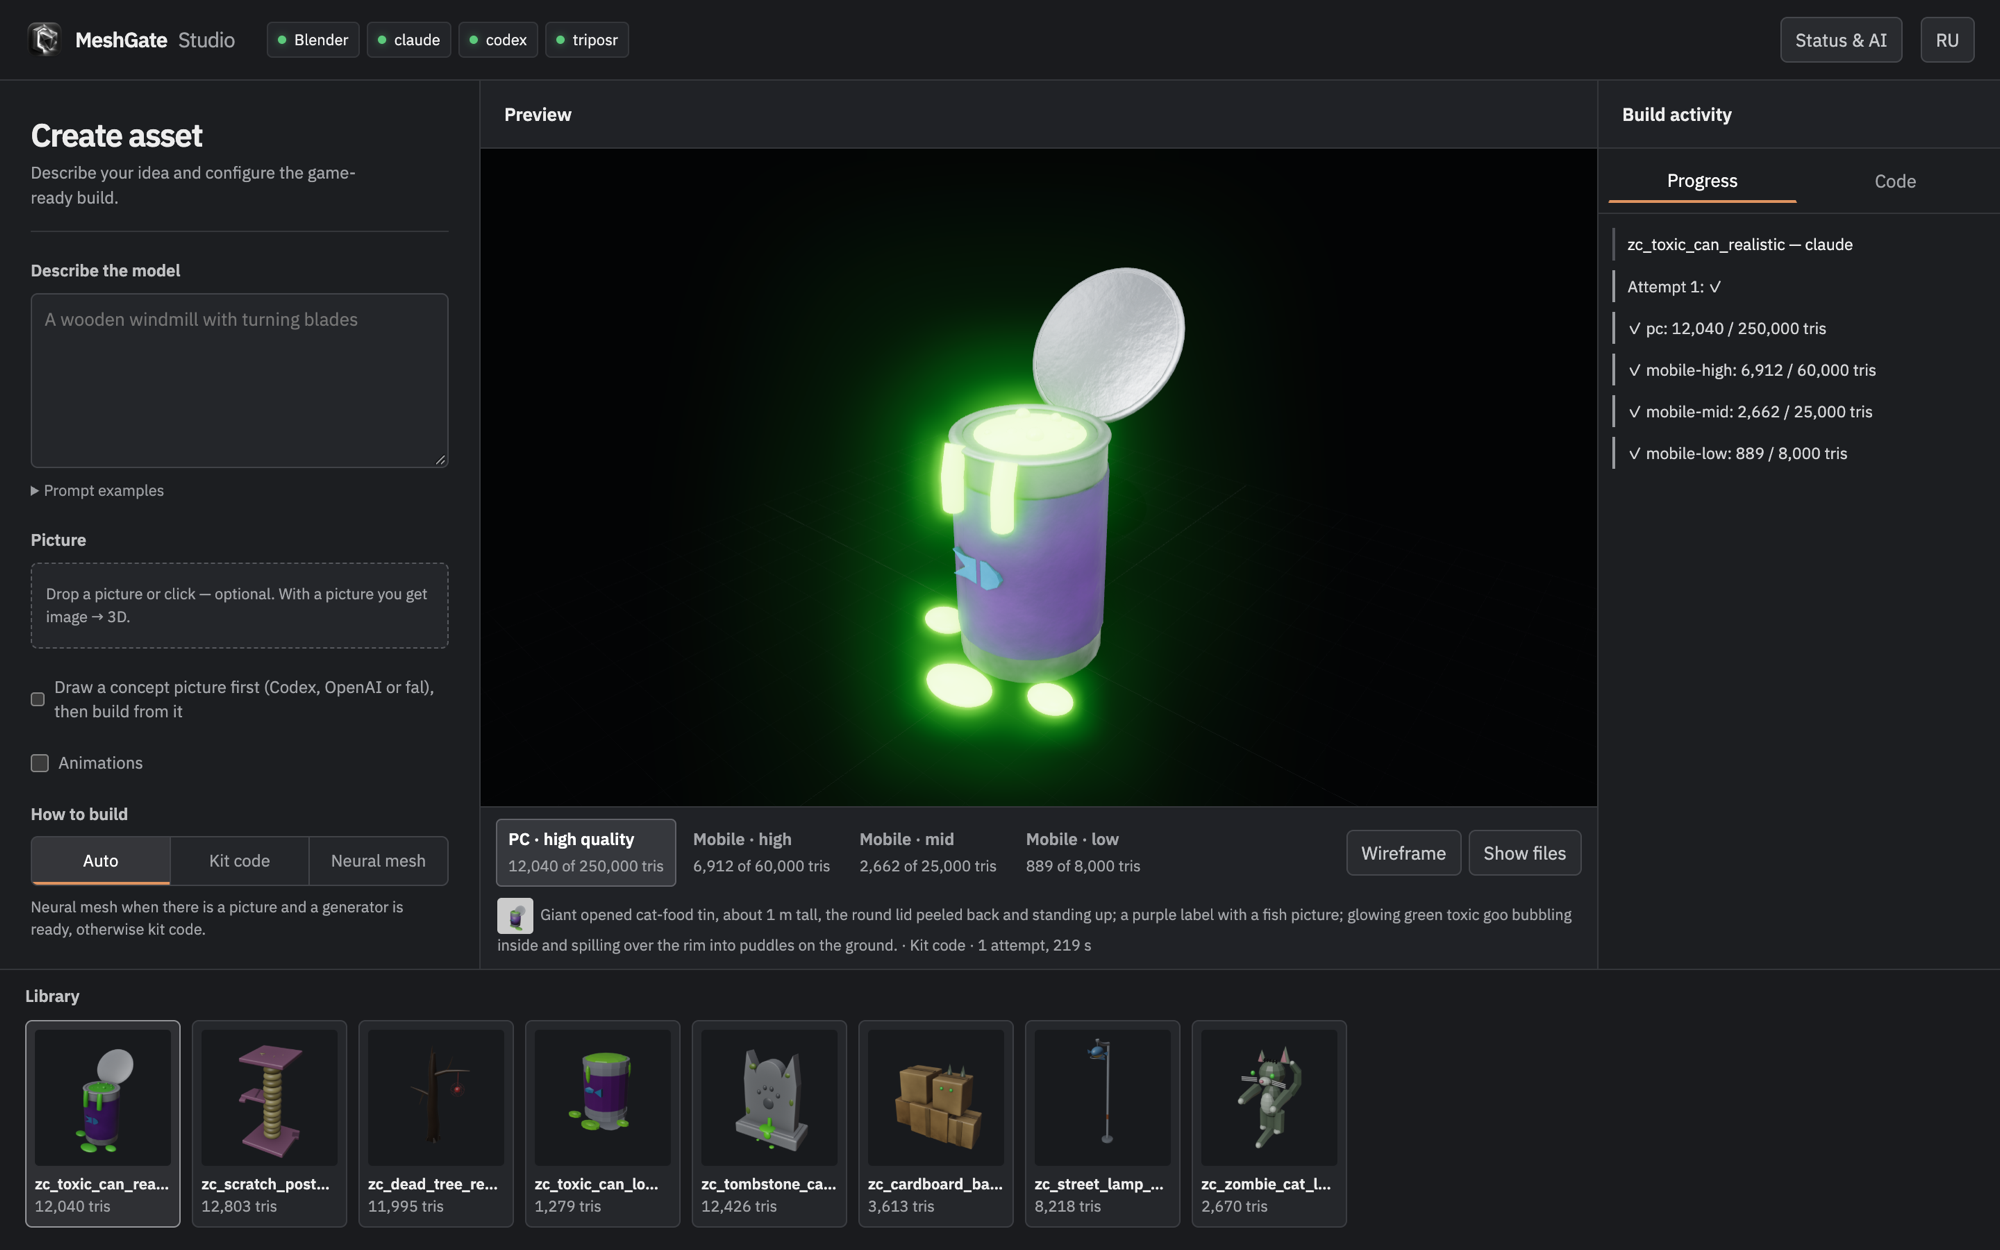
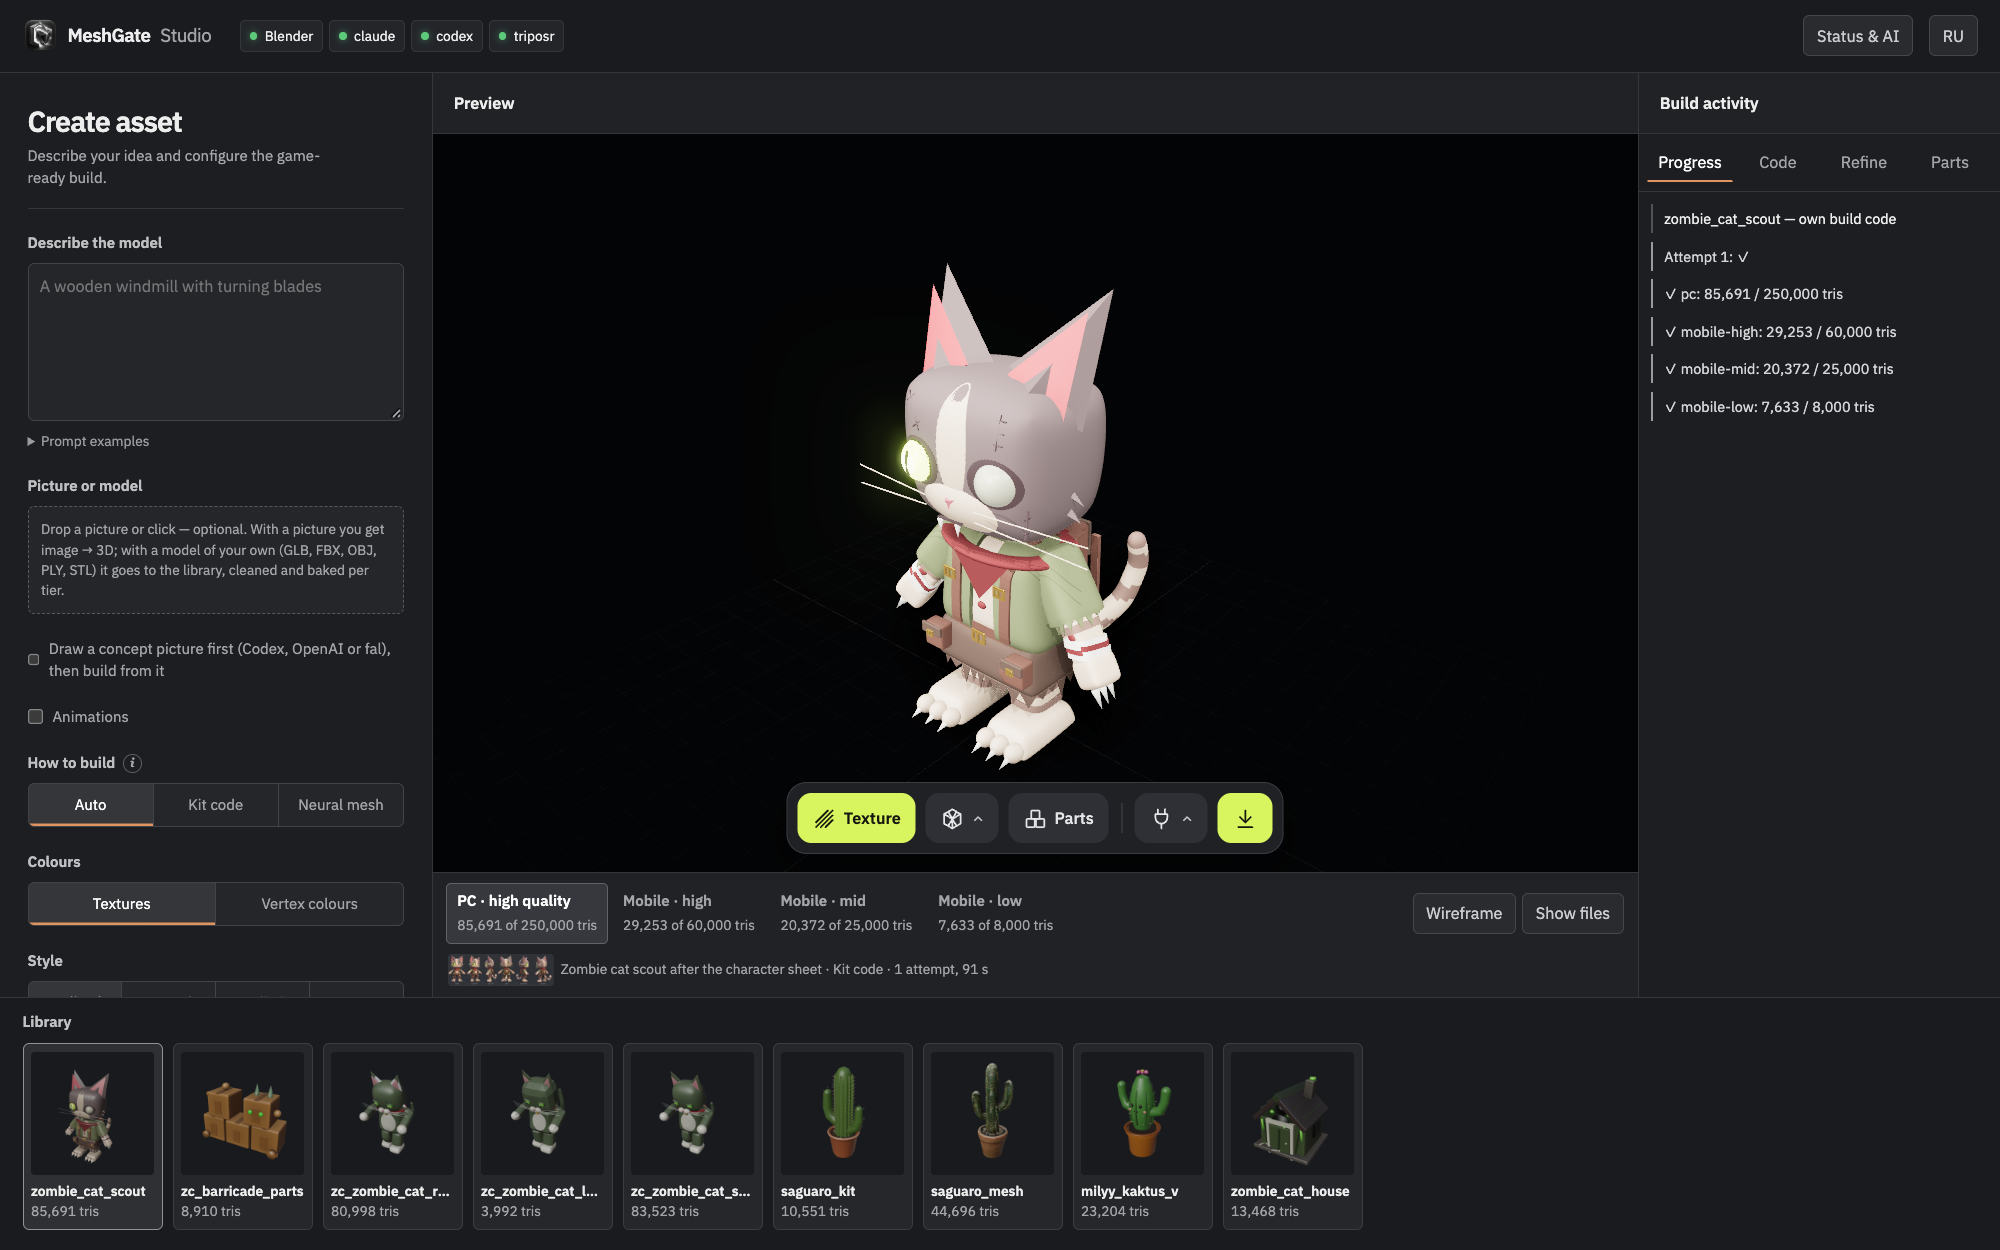
v0.6.8: parts you can move, your own models, a bridge into the engines, dressed characters
- --split and a part editor in Studio (move, turn, scale, repaint, remove; edits.json reapplied on rebuilds)
- your own GLB / FBX / OBJ / PLY / STL into the Studio library; Send to Unity, Godot, Unreal or Blender
  (Studio and `meshgate.py send`)
- a dock under the model: texture, remesh to a target polycount in quads or triangles, the UV grid, parts,
  send, download; the notes on the settings in an ⓘ
- kit: mg.garment, mg.strap, mg.buckle, mg.pouch, mg.fringe, mg.wrap, mg.stitch, mg.bounds; colours fitted to
  the reference; comparison with every view of a character sheet
- README (both languages), roadmap and the Studio screenshot; version 0.6.8

diff --git a/apps/studio/server.py b/apps/studio/server.py
@@ -42,7 +42,7 @@ import keys  # noqa: E402
 import mesh  # noqa: E402
 import components  # noqa: E402  optional local models (TripoSR, Hunyuan3D, Kimodo)
 
-VERSION = "0.6.7"
+VERSION = "0.6.8"
 THREE_VERSION = "0.169.0"   # same as targets/web/index.html
 NAME_RE = re.compile(r"^[a-z0-9_\-.]{1,80}$")
 UPLOAD_RE = re.compile(r"^[0-9a-f]{16}\.(png|jpg|jpeg|webp)$")

diff --git a/README.md b/README.md
@@ -13,7 +13,14 @@
   program that builds it from simple parts, and Blender builds it.
 - **Picture → 3D.** Drop a picture. TripoSR on your computer, or a cloud generator, turns it into a mesh; MeshGate
   stands it upright, simplifies it and bakes its colours.
-- **Your own models.** The Blender add-on checks a model, fixes what engines trip over and exports it.
+- **Your own models.** Drop a GLB, FBX, OBJ, PLY or STL into Studio and it goes into the library, cleaned, remeshed
+  and baked for every tier. In Blender, the add-on checks a model, fixes what engines trip over and exports it.
+- **Parts you can move.** **Split into parts** makes every separate thing its own object — a pile of crates becomes one
+  object per crate, named by its colour, its origin at its base — so it can be moved and reworked on its own in the
+  engine. In Studio you drag, turn, scale, repaint or remove the parts and every tier is rebuilt with the changes.
+- **Edit under the model, send to the engine.** A bar under the model changes the texture, remeshes to a target
+  polycount in quads or triangles and shows the UV layout; **Send to** puts the files straight into your Unity, Godot
+  or Unreal project (and replaces them there next time), or opens the model in Blender.
 - **Ready for every device.** Each model is built for four quality tiers — PC, mobile high, mobile mid, mobile low —
   within each tier's triangle and texture budget, as `.glb` plus `.fbx` and engine variants with collision and LODs.
   Every file is checked against the engines' rules before you see it.
@@ -54,7 +61,8 @@ plugins: **[Installation](docs/install.md)**.
 3. Optional: **Output settings** for the size, the tiers, your own triangle limits and textures or vertex colours;
    **Animations** to describe clips such as "open: the lid opens".
 4. Press **Generate**. In one to three minutes every tier appears in 3D with its triangle count.
-5. **Show files** opens the folder with the `.glb`, `.fbx` and engine files.
+5. Under the model: **Texture**, **Remesh / UV**, **Parts**, the plug to send it into your engine project, and
+   **Download**. **Show files** opens the folder with the `.glb`, `.fbx` and engine files.
 
 ![MeshGate Studio](docs/img/studio.png)
 
@@ -124,6 +132,8 @@ The same without a window, and in CI:
 python3 meshgate.py doctor                                    # what is installed and what is missing
 python3 meshgate.py gen "a wooden treasure chest" --size 0.8  # text → model for every tier
 python3 meshgate.py gen --image photo.jpg --size 0.8          # picture → model
+python3 meshgate.py gen --mesh crates.fbx --split             # your own model → every tier, one object per crate
+python3 meshgate.py send out/gen/crates --to unity --project ~/Games/MyGame   # into a Unity / Godot / Unreal project
 python3 meshgate.py studio                                    # MeshGate Studio in your browser
 python3 meshgate.py mcp                                       # MCP server: an AI client builds in live Blender
 python3 meshgate.py export scene.blend --out build/asset.glb --fbx   # Blender file → checked GLB (+ FBX)
@@ -156,7 +166,7 @@ For AI coding agents, [`SKILL.md`](SKILL.md) turns the pipeline into a repeatabl
 <summary>Repository layout</summary>
 
 ```
-meshgate.py      the command line: doctor, gen, studio, export, validate, serve, check, install-blender, …
+meshgate.py      the command line: doctor, gen, studio, send, export, validate, serve, check, install-blender, …
 core/            asset contract, quality tiers, GLB and FBX validators (standard library only)
 sources/blender  the Blender add-on, the modeling kit, headless export, demo generators
 sources/generate text and picture → model: prompts, AI tool adapters, guard rails, generators, refine, examples
@@ -172,8 +182,9 @@ tests/           automated checks; .github/ runs them on Linux and Windows and b
 
 ## Status
 
-**v0.6.7.** Generation from text and pictures, three styles, four quality tiers, MeshGate Studio for macOS, Windows
-and Linux (portable). Checked on Blender 3.5, 4.2 LTS and 5.2 LTS, Unity 6, Godot 4.7 and in the web viewer; for every change
+**v0.6.8.** Generation from text and pictures, three styles, four quality tiers, MeshGate Studio for macOS, Windows
+and Linux (portable), your own models in the library, models split into parts you can edit, and sending to Unity,
+Godot, Unreal and Blender. Checked on Blender 3.5, 4.2 LTS and 5.2 LTS, Unity 6, Godot 4.7 and in the web viewer; for every change
 GitHub runs the web, Blender, Godot and Unreal API checks on Linux, and the web and Blender checks on Windows. Characters with a skeleton, A/T-pose and clips come out of the kit. Next: a live Unreal run, animation from text
 (Kimodo), Maya, signed installers — see the [roadmap](docs/roadmap.md).
 

diff --git a/docs/roadmap.ru.md b/docs/roadmap.ru.md
@@ -112,6 +112,12 @@
 - [x] Риги, которые держатся: детали на движущемся теле берут веса поверхности под собой, веса сглажены по коже, грани под движущейся рукой не удаляются, петли по позвоночнику у low-poly тел; поза покоя A-Pose / T-Pose (`--pose`, студия).
 - [x] Тун-обводка (вывернутая оболочка, `--outline`), мягче ореол свечения во вьюере.
 
+## v0.6.8 — Части, свои модели, мост в движки, одетые персонажи (сделано)
+- [x] `--split`: каждая отдельная вещь — свой объект под общим корнем, с именем по цвету и точкой опоры внизу (kit и свои сетки); редактор частей в Studio (двигать, поворачивать, масштабировать, перекрашивать, удалять), правки хранятся в `edits.json` и повторяются при каждой пересборке.
+- [x] Свои GLB, FBX, OBJ, PLY и STL в библиотеку Studio; «Отправить в» Unity, Godot, Unreal или Blender (`meshgate.py send`).
+- [x] Панель под моделью в Studio: текстура, ремеш под целевой полигонаж в квадах или треугольниках, UV-сетка, части, отправка, скачивание; пояснения к настройкам в ⓘ.
+- [x] Инструменты одежды и деталей для kit: mg.garment, mg.strap, mg.buckle, mg.pouch, mg.fringe, mg.wrap, mg.stitch, mg.bounds; цвета подгоняются под референс; сравнение со всеми видами листа персонажа и подгонка глубины по видам сбоку.
+
 ## Позже — персонажи и PBR
 - [ ] Коты-зомби, realistic: кот-зомби и рыбьи кости через генератор картинка → 3D (с облачным ключом или Hunyuan3D-2).
 - [ ] Анимации персонажей по тексту через Kimodo (уже ставится): SOMA BVH → ретаргет на Humanoid MeshGate в Blender → клипы в GLB/FBX; нужна видеокарта NVIDIA.

diff --git a/docs/roadmap.md b/docs/roadmap.md
@@ -112,6 +112,12 @@
 - [x] Rigs that hold together: pieces on a moving body take the weights of the surface under them, weights are smoothed across the skin, faces under a moving arm are kept, spine rings on low-poly bodies; A-Pose / T-Pose rest pose (`--pose`, Studio).
 - [x] Toon ink line (inverted hull, `--outline`), a softer glow halo in the viewer.
 
+## v0.6.8 — Parts, your own models, a DCC bridge, dressed characters (done)
+- [x] `--split`: every separate thing its own object under one root, named by its colour, its origin at its base (kit and your own meshes); a part editor in Studio (move, turn, scale, repaint, remove) kept as `edits.json` and reapplied on every rebuild.
+- [x] Your own GLB, FBX, OBJ, PLY or STL into the Studio library; Send to Unity, Godot, Unreal or Blender (`meshgate.py send`).
+- [x] A dock under the model in Studio: texture, remesh to a target polycount in quads or triangles, the UV grid, parts, send, download; the notes on the settings in an ⓘ.
+- [x] Dressing and detail tools for the kit: mg.garment, mg.strap, mg.buckle, mg.pouch, mg.fringe, mg.wrap, mg.stitch, mg.bounds; colours fitted to the reference; comparison with every view of a character sheet and depth fitted from the sides.
+
 ## Later — characters and PBR
 - [ ] Zombie Cats, realistic: the zombie cat and fish bones through a picture → 3D generator (with a cloud key or Hunyuan3D-2).
 - [ ] Character animation from text with Kimodo (installable now): SOMA BVH → retarget onto the MeshGate Humanoid in Blender → clips in GLB/FBX; needs an NVIDIA GPU.
